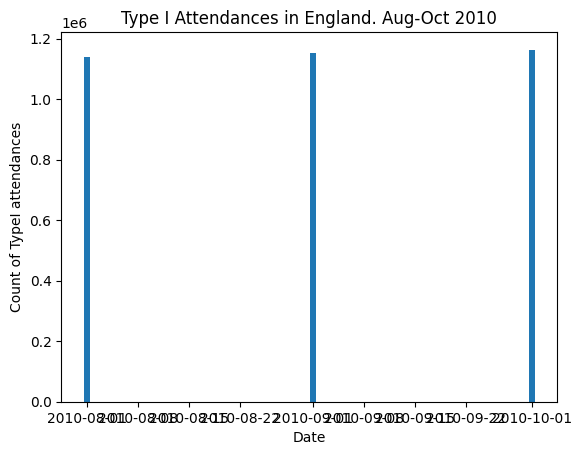
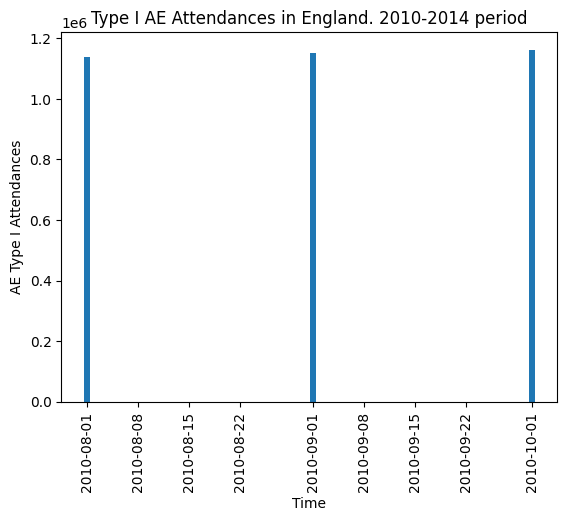
Standard matplotlib bar chart

Changed region(s): [[0.0, 0.0, 0.9894, 0.9846]]

diff --git a/Matplotlib_gallery/03_barplot_using_AE_data.py b/Matplotlib_gallery/03_barplot_using_AE_data.py
@@ -56,17 +56,21 @@ AE_TypeI_AUG_OCT_2010_plot = AE_TypeI_AUG_OCT_2010.reset_index()
 AE_TypeI_AUG_OCT_2010_plot.head()
 
 # Now the data is ready to be used in matplotlib to create a bar plot
+# Include this code below to avoid dates overlapping on the x axis
+# plt.xticks(rotation = 90)
 
 import matplotlib.pyplot as plt
 
-fig, ax = plt.subplots()
-# We create a barplot using .bar() function 
-ax.bar(AE_TypeI_AUG_OCT_2010_plot.Date,
-       AE_TypeI_AUG_OCT_2010_plot.Att_type1)
+# Standard matplotlib bar chart
 
-ax.set_ylabel('Count of TypeI attendances')
-ax.set_xlabel("Date")
-ax.set_title("Type I Attendances in England. Aug-Oct 2010")
-# Saving bar chart in plots sub-folder
+# barplot using .bar() function
+plt.title("Type I AE Attendances in England. 2010-2014 period")
+plt.xlabel("Time")
+plt.ylabel("AE Type I Attendances")
+plt.bar(AE_TypeI_AUG_OCT_2010_plot.Date,
+       AE_TypeI_AUG_OCT_2010_plot.Att_type1)
+# Rote X axis label 90 degrees
+plt.xticks(rotation=90)
 plt.savefig('Plots/Bar_plot_TypeI_Attendances_England_Aug_Oct_2010.png', bbox_inches='tight')
 plt.show()
+# Save output plot
